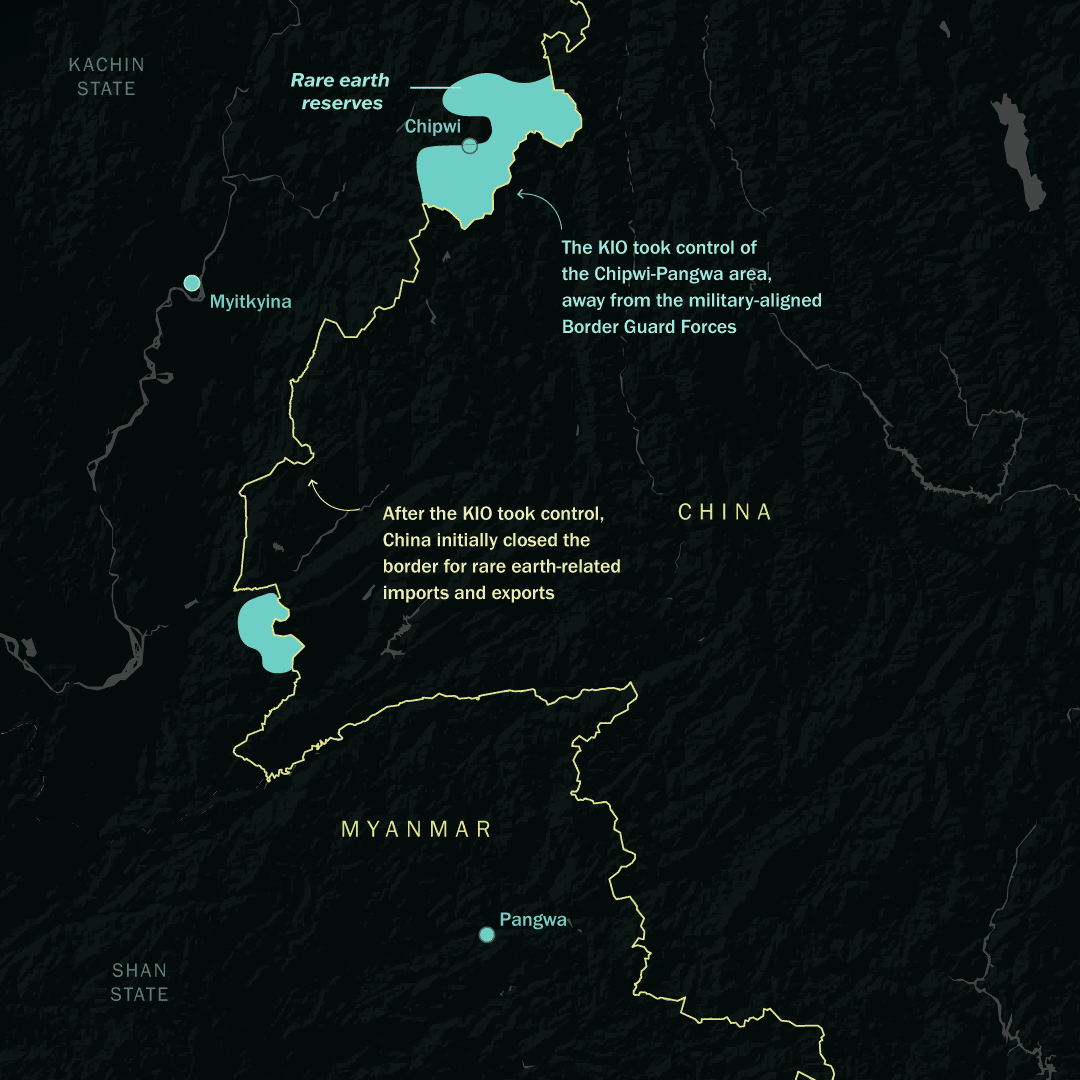
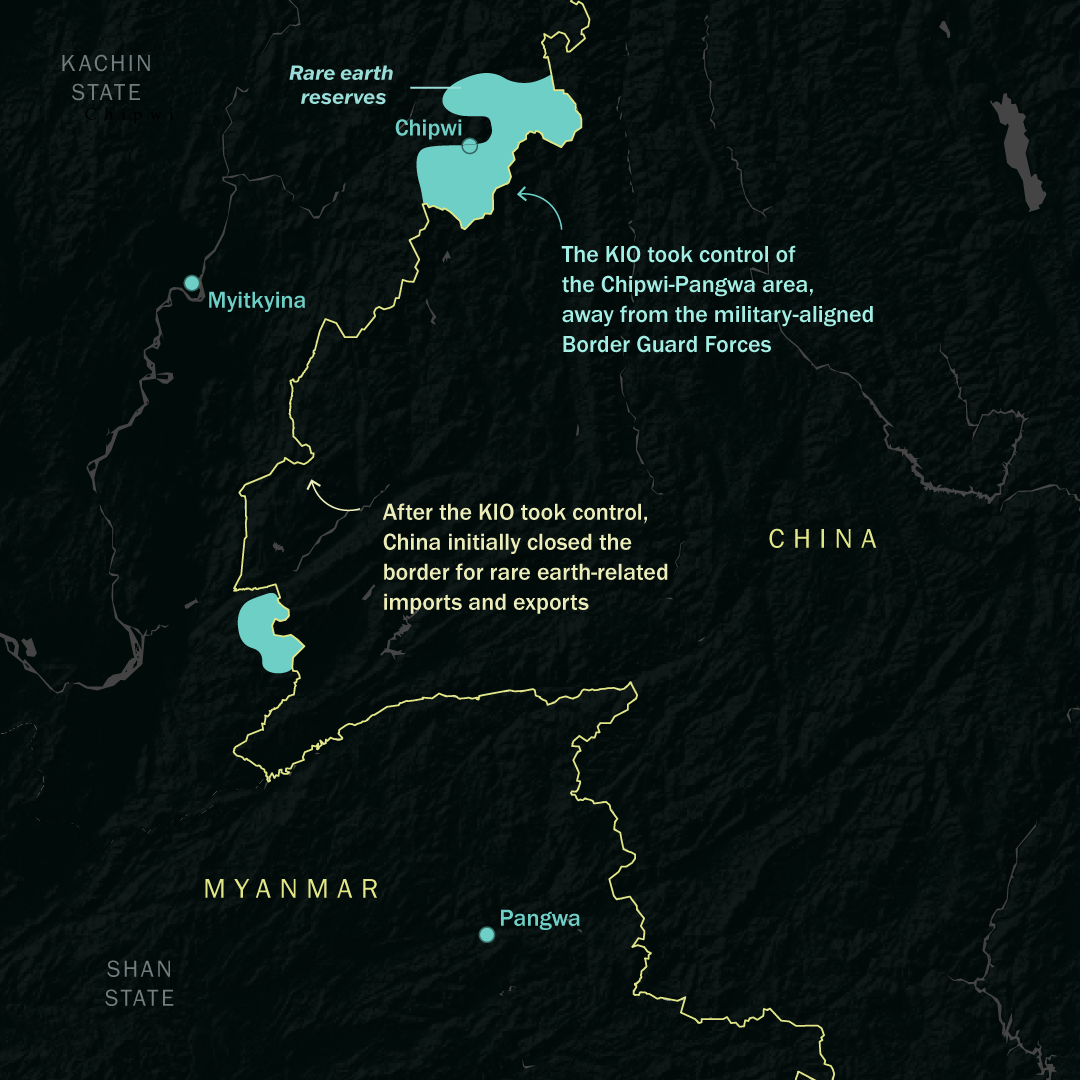
rare earth mbox

diff --git a/rare-earths/index.html b/rare-earths/index.html
@@ -154,17 +154,7 @@
           <p>
             This mountainous region bordering China hosts the most commercially important deposits. Mining is conducted through in situ leaching, an environmentally destructive method whereby chemicals are injected into clay-rich slopes.
           </p>
-        </article>
-        <article
-          class="story-mapbox-scrolly__step"
-          data-center="98.4359,25.7879"
-          data-zoom="10.5"
-          data-pitch="0"
-          data-bearing="0"
-          data-tilesets="daltonwb.mttjzo,daltonwb.1pmfjj"
-          data-tileset-types="raster,raster"
-          data-tileset-opacities="1,1"
-        >
+          <br />
           <p>
             The mineral-bearing solution drains into collection ponds, and rare earth compounds are precipitated and concentrated before trucking the mixture across the border to China for processing.
           </p>
@@ -175,10 +165,57 @@
           data-zoom="10.5"
           data-pitch="0"
           data-bearing="0"
-          data-tilesets="daltonwb.mttjzo,daltonwb.1pmfjj"
-          data-tileset-types="raster,raster"
-          data-tileset-opacities="0.85,0.9"
-          data-tileset-raster-colors="#2277b4,#54bbb7"
+          data-tilesets="mapbox.mapbox-streets-v8,daltonwb.mttjzo,daltonwb.1pmfjj"
+          data-tileset-layers="admin,,"
+          data-tileset-types="line,raster,raster"
+          data-tileset-opacities="1,1,1"
+          data-tileset-colors="#E3E686,,"
+          data-tileset-raster-colors=",#85DED7,#85DED7"
+          data-tileset-line-widths="4,,"
+          data-tileset-filters='[["all",["==",["get","admin_level"],0],["match",["get","iso_3166_1"],["CN-MM","IN-MM","MM-TH","LA-MM","BD-MM"],true,false]],null,null]'
+          data-map-label="Myanmar"
+          data-map-label-tileset="mapbox.mapbox-streets-v8"
+          data-map-label-mode="fixed"
+          data-map-label-center="98.26,25.7379"
+          data-map-label-additions='[{"text":"China","center":[98.61,25.7379]}]'
+          data-tileset-label-styles="book,,"
+          data-tileset-label-sizes="20,,"
+          data-tileset-label-colors="#E3E686,,"
+          data-tileset-label-letter-spacings="1,,"
+          data-tileset-label-transforms="uppercase,,"
+          data-style-layer="mapbox-satellite"
+          data-style-layer-opacity="0.5"
+        >
+          <p>
+            Lorem ipsum dolor sit amet consectetur adipisicing elit. Impedit tenetur ex dicta eligendi temporibus repudiandae ipsam necessitatibus, doloribus labore quisquam nisi dolore itaque reprehenderit, cumque recusandae nulla deserunt voluptatum reiciendis.
+          </p>
+        </article>
+        <article
+          class="story-mapbox-scrolly__step"
+          data-center="98.4359,25.7879"
+          data-zoom="10.5"
+          data-pitch="0"
+          data-bearing="0"
+          data-tilesets="mapbox.mapbox-streets-v8,daltonwb.mttjzo,daltonwb.1pmfjj"
+          data-tileset-layers="admin,,"
+          data-tileset-types="line,raster,raster"
+          data-tileset-opacities="1,0.85,0.9"
+          data-tileset-colors="#E3E686,,"
+          data-tileset-raster-colors=",#a7e2dd,#376864"
+          data-tileset-line-widths="4,,"
+          data-tileset-filters='[["all",["==",["get","admin_level"],0],["match",["get","iso_3166_1"],["CN-MM","IN-MM","MM-TH","LA-MM","BD-MM"],true,false]],null,null]'
+          data-map-label="Myanmar"
+          data-map-label-tileset="mapbox.mapbox-streets-v8"
+          data-map-label-mode="fixed"
+          data-map-label-center="98.26,25.7379"
+          data-map-label-additions='[{"text":"China","center":[98.61,25.7379]}]'
+          data-tileset-label-styles="book,,"
+          data-tileset-label-sizes="20,,"
+          data-tileset-label-colors="#E3E686,,"
+          data-tileset-label-letter-spacings="1,,"
+          data-tileset-label-transforms="uppercase,,"
+          data-style-layer="mapbox-satellite"
+          data-style-layer-opacity="0.5"
         >
           <p>
             Satellite analysis in 2022 documented more than 2,700 leaching pools across nearly 300 separate sites in the Chipwi / Pangwa Belt area, often referred to as Kachin Special Region 1.
@@ -245,7 +282,9 @@
           data-tilesets="daltonwb.z9cj8x,daltonwb.lydz8q"
           data-tileset-types="raster,raster"
           data-tileset-opacities="0.85,0.9"
-          data-tileset-raster-colors="#54bbb7,#54bbb7"
+          data-tileset-raster-colors="#85DED7,#85DED7"
+          data-style-layer="mapbox-satellite"
+          data-style-layer-opacity="0.5"
         >
           <p>More recently, smaller-scale mines have appeared further south in Shan State, in territories controlled by the United Wa State Army, one of the country’s largest ethnic armed groups, and its ally, the National Democratic Alliance Army (Mongla group).</p>
         </article>
@@ -258,7 +297,9 @@
           data-tilesets="daltonwb.z9cj8x,daltonwb.lydz8q"
           data-tileset-types="raster,raster"
           data-tileset-opacities="0.85,0.9"
-          data-tileset-raster-colors="#2277b4,#54bbb7"
+          data-tileset-raster-colors="#376864,#54bbb7"
+          data-style-layer="mapbox-satellite"
+          data-style-layer-opacity="0.5"
         >
           <p>While reportedly lower grade than the Kachin deposits, these sites are expanding rapidly – with the area affected by mining tripling from 2024 to 2025, according to Crisis Group analysis of high-resolution imagery.</p>
         </article>

diff --git a/scroll.js b/scroll.js
@@ -181,6 +181,7 @@
   const scrollys = Array.from(document.querySelectorAll("[data-story-map]"));
   if (!scrollys.length) return;
   const MAP_LABEL_FONT_STACK = ["Franklin Gothic Medium Regular", "Arial Unicode MS Regular"];
+  const MAP_LABEL_BOOK_FONT_STACK = ["Franklin Gothic Book Regular", "Arial Unicode MS Regular"];
   const MAP_LABEL_ITALIC_FONT_STACK = ["Franklin Gothic Medium Italic", "Arial Unicode MS Regular"];
 
   function parseCenter(value) {
@@ -299,6 +300,7 @@
     const labelColors = splitDatasetList(step.dataset.tilesetLabelColors);
     const labelHaloWidths = splitDatasetList(step.dataset.tilesetLabelHaloWidths);
     const labelLetterSpacings = splitDatasetList(step.dataset.tilesetLabelLetterSpacings);
+    const labelTransforms = splitDatasetList(step.dataset.tilesetLabelTransforms);
 
     return tilesets.map((tileset, tilesetIndex) => {
       const layerType = layerTypes[tilesetIndex] || layerTypes[0] || "fill";
@@ -362,6 +364,7 @@
         labelColor: labelColors[tilesetIndex] || null,
         labelHaloWidth: Number.isFinite(labelHaloWidth) ? labelHaloWidth : null,
         labelLetterSpacing: Number.isFinite(labelLetterSpacing) ? labelLetterSpacing : null,
+        labelTransform: labelTransforms[tilesetIndex] || null,
         fixedLabels,
         labelLayerId: `${layerId}-label`,
         labelSourceId: `${layerId}-label-source`,
@@ -393,6 +396,67 @@
     if (layerType === "line") return "line-opacity";
     if (layerType === "circle") return "circle-opacity";
     return "fill-opacity";
+  }
+
+  function styleLayerOpacityProperty(layerType) {
+    if (layerType === "raster") return "raster-opacity";
+    if (layerType === "line") return "line-opacity";
+    if (layerType === "circle") return "circle-opacity";
+    if (layerType === "fill") return "fill-opacity";
+    if (layerType === "background") return "background-opacity";
+    return null;
+  }
+
+  function styleLayerOpacityConfigsForStep(step) {
+    const layerIds = splitDatasetList(step.dataset.styleLayers || step.dataset.styleLayer);
+    const opacities = splitDatasetList(step.dataset.styleLayerOpacities || step.dataset.styleLayerOpacity);
+
+    return layerIds.map((layerId, index) => ({
+      layerId,
+      opacity: Number.parseFloat(opacities[index] || opacities[0]),
+    })).filter((config) => config.layerId && Number.isFinite(config.opacity));
+  }
+
+  function captureStyleLayerOpacityDefaults(map, steps) {
+    const defaults = new Map();
+
+    steps.forEach((step) => {
+      styleLayerOpacityConfigsForStep(step).forEach((config) => {
+        if (defaults.has(config.layerId)) return;
+
+        const layer = map.getLayer(config.layerId);
+        if (!layer) return;
+
+        const property = styleLayerOpacityProperty(layer.type);
+        if (!property) return;
+
+        defaults.set(config.layerId, {
+          property,
+          value: map.getPaintProperty(config.layerId, property) ?? null,
+        });
+        map.setPaintProperty(config.layerId, `${property}-transition`, {
+          duration: 700,
+          delay: 0,
+        });
+      });
+    });
+
+    return defaults;
+  }
+
+  function updateStyleLayerOpacities(map, activeStep, defaults) {
+    const activeConfigs = new Map(
+      styleLayerOpacityConfigsForStep(activeStep).map((config) => [config.layerId, config]),
+    );
+
+    defaults.forEach((original, layerId) => {
+      const activeConfig = activeConfigs.get(layerId);
+      map.setPaintProperty(
+        layerId,
+        original.property,
+        activeConfig ? activeConfig.opacity : original.value,
+      );
+    });
   }
 
   function colorProperty(layerType) {
@@ -675,9 +739,14 @@
           source: config.labelMode === "feature" ? config.sourceId : config.labelSourceId,
           layout: {
             "text-field": config.labelMode === "fixed" ? ["get", "label"] : config.labelText,
-            "text-font": config.labelStyle === "italic" ? MAP_LABEL_ITALIC_FONT_STACK : MAP_LABEL_FONT_STACK,
+            "text-font": config.labelStyle === "italic"
+              ? MAP_LABEL_ITALIC_FONT_STACK
+              : config.labelStyle === "book"
+                ? MAP_LABEL_BOOK_FONT_STACK
+                : MAP_LABEL_FONT_STACK,
             "text-size": config.labelSize ?? (config.labelMode === "feature" ? 15 : 18),
             "text-letter-spacing": config.labelLetterSpacing ?? 0,
+            "text-transform": config.labelTransform || "none",
             "text-anchor": config.labelMode === "feature" ? "left" : "center",
             "text-offset": config.labelMode === "feature" ? [0.8, 0] : [0, 0],
             "text-allow-overlap": config.labelMode !== "feature",
@@ -831,6 +900,7 @@
     let ticking = false;
     let activeStep = null;
     const positionedLabels = new Set();
+    let styleLayerOpacityDefaults = new Map();
 
     function setActiveStep(step, options = {}) {
       if (!step) return;
@@ -860,6 +930,7 @@
       }
 
       updateStepTilesets(map, steps, step);
+      updateStyleLayerOpacities(map, step, styleLayerOpacityDefaults);
     }
 
     function updateActiveStepFromViewport(options = {}) {
@@ -895,6 +966,7 @@
         addStepTilesets(map, steps);
         addStepPlaceholders(map, steps);
         addStepLabels(map, steps);
+        styleLayerOpacityDefaults = captureStyleLayerOpacityDefaults(map, steps);
         updateActiveStepFromViewport({ forceCamera: true, jump: true });
       });
 
